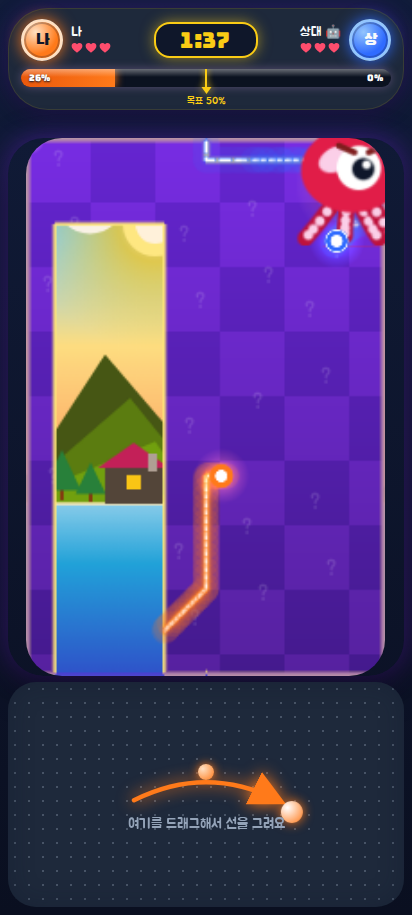
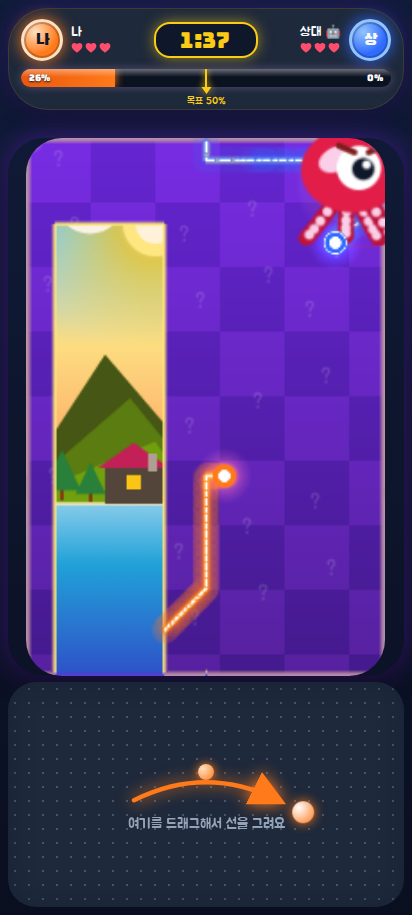
fix: restroke trail core on append and stabilize pixel e2e
Halo the new tip then orange+white over glow-radius lookback so
incremental round-caps cannot bury the white core. Double-stroke
a slightly redder orange so FIT still reads b≤70. New append e2e
plus 10/10 local pixel runs at 390/360/412 without looser caps.

diff --git a/tests/e2e/cover-layout.spec.ts b/tests/e2e/cover-layout.spec.ts
@@ -48,17 +48,21 @@ async function waitTrailAppend(page: Page) {
   );
 }
 
-function expect390Trail(measured: TrailMeasure) {
+function expectTrailBand(measured: TrailMeasure, minSolid: number) {
   expect(measured.hasWhiteCenter, `center ${measured.centerRgb}`).toBe(true);
   expect(measured.whiteCore).toBeGreaterThanOrEqual(1);
   expect(measured.whiteCore).toBeLessThanOrEqual(3.5);
-  expect(measured.solidWidth).toBeGreaterThanOrEqual(3);
+  expect(measured.solidWidth).toBeGreaterThanOrEqual(minSolid);
   expect(measured.solidWidth).toBeLessThanOrEqual(8.5);
   expect(measured.glowWidth).toBeGreaterThanOrEqual(14);
   expect(measured.glowWidth).toBeLessThanOrEqual(36);
   expect(measured.orangeRgb, 'orange band').toBeTruthy();
   expect(measured.orangeRgb![0]).toBeGreaterThanOrEqual(210);
   expect(measured.orangeRgb![1]).toBeLessThanOrEqual(170);
+}
+
+function expect390Trail(measured: TrailMeasure) {
+  expectTrailBand(measured, 3);
   expect(measured.orangeRgb![2]).toBeLessThanOrEqual(70);
   expect(measured.ringPx).toBeGreaterThanOrEqual(16);
   expect(measured.ringPx).toBeLessThanOrEqual(24);
@@ -164,9 +168,9 @@ async function measureRenderedTrail(page: Page): Promise<TrailMeasure> {
         if (rad >= 6 && rad <= 14) radii.push(rad);
       }
       radii.sort((a, b) => a - b);
-      const body = radii.filter((r) => r >= 8 && r <= 13);
-      const use = body.length ? body : radii;
-      if (use.length) ring = use[Math.floor(use.length * 0.5)] * 2;
+      const body = radii.filter((r) => r >= 8 && r <= 12);
+      const use = body.length ? body : radii.filter((r) => r >= 8 && r <= 13);
+      if (use.length) ring = use[Math.floor(use.length * 0.4)] * 2;
     }
     const index = (x: number, y: number) => (y * width + x) * 4;
     const collect = (major: number, minor: number, swap: boolean) => {
@@ -179,7 +183,7 @@ async function measureRenderedTrail(page: Page): Promise<TrailMeasure> {
         let wRun = 0;
         const push = () => {
           if (sRun >= 3 && sRun <= 8) solids.push(sRun);
-          if (gRun >= 8 && gRun <= 40) glows.push(gRun);
+          if (gRun >= 14 && gRun <= 40) glows.push(gRun);
           if (wRun >= 1 && wRun <= 4) cores.push(wRun);
           sRun = 0;
           gRun = 0;
@@ -228,9 +232,14 @@ async function measureRenderedTrail(page: Page): Promise<TrailMeasure> {
     if (orbX >= 0) {
       const isPixWhite = (p: [number, number, number]) =>
         p[0] >= 210 && p[1] >= 175 && p[2] >= 130 && p[1] >= p[0] * 0.58 && p[2] >= p[0] * 0.38;
+      // True core, not cream 255,202,167 from glow/orange overpaint.
+      const isCoreWhite = (p: [number, number, number]) => p[0] >= 240 && p[1] >= 210 && p[2] >= 180;
       // Bright orange band (AA fringe ok). Pure-color pick is closest to #FF7A1A.
       const isPixOrange = (p: [number, number, number]) =>
         p[0] >= 210 && p[1] >= 55 && p[1] <= 180 && p[2] <= 80 && p[0] > p[1] + 40;
+      // AA between white core and #FF7A1A — not the 7–12px inner glow.
+      const isSolidBand = (p: [number, number, number]) =>
+        p[0] >= 200 && p[1] <= 180 && p[2] <= 100 && p[0] > p[1] + 25 && p[0] > p[2] + 70;
       const isPixGlow = (p: [number, number, number]) =>
         p[0] >= 100 && p[0] > p[1] + 8 && (isPixOrange(p) || isPixWhite(p) || p[0] + 40 > p[2]);
       const xLo = Math.max(0, Math.round(orbX) - 52);
@@ -241,28 +250,27 @@ async function measureRenderedTrail(page: Page): Promise<TrailMeasure> {
         white: number;
         rgb: [number, number, number];
         orange: [number, number, number] | null;
+        orangeB: number;
       };
       const cands: Cand[] = [];
-      for (const dy of [8, 12, 14, 16, 20, 24, 28, 32, 36, 44, 54, 70, -12, -18]) {
-        const yScan = Math.round(orbY + dy);
-        if (yScan < 0 || yScan >= height) continue;
-        const row: [number, number, number][] = [];
-        for (let x = 0; x < width; x++) row.push(pix(x, yScan));
+      const offsets = [10, 12, 14, 16, 20, 24, 28, 32, 36, 44, 54, 70, -12, -18];
+      const slice = (lo: number, hi: number, at: (k: number) => [number, number, number]) => {
         const runs: { x0: number; x1: number; glow: number; whites: number }[] = [];
         let g0 = -1;
-        for (let x = xLo; x <= xHi + 1; x++) {
-          const on = x <= xHi && isPixGlow(row[x]);
-          if (on && g0 < 0) g0 = x;
+        for (let k = lo; k <= hi + 1; k++) {
+          const on = k <= hi && isPixGlow(at(k));
+          if (on && g0 < 0) g0 = k;
           if (!on && g0 >= 0) {
             let whites = 0;
-            for (let i = g0; i < x; i++) if (isPixWhite(row[i])) whites++;
-            runs.push({ x0: g0, x1: x - 1, glow: x - g0, whites });
+            for (let i = g0; i < k; i++) if (isPixWhite(at(i)) || isCoreWhite(at(i))) whites++;
+            runs.push({ x0: g0, x1: k - 1, glow: k - g0, whites });
             g0 = -1;
           }
         }
-        const near = runs.filter((r) => r.glow >= 6 && r.whites >= 1);
-        const best = near.sort((a, b) => a.glow - b.glow || b.whites - a.whites)[0];
-        if (!best) continue;
+        const near = runs.filter((r) => r.glow >= 14 && r.whites >= 1);
+        // Straight ~26px halo, not the thinnest AA fringe or a join blob.
+        const best = near.sort((a, b) => Math.abs(a.glow - 26) - Math.abs(b.glow - 26) || b.whites - a.whites)[0];
+        if (!best) return;
         let wRun = 0;
         let sRun = 0;
         let white = 0;
@@ -271,44 +279,62 @@ async function measureRenderedTrail(page: Page): Promise<TrailMeasure> {
         let peakScore = -1;
         let orange: [number, number, number] | null = null;
         let orangeDist = Infinity;
-        for (let x = best.x0; x <= best.x1; x++) {
-          const p = row[x];
-          if (p[0] >= 190 && p[0] > p[1] + 20) {
+        for (let k = best.x0; k <= best.x1; k++) {
+          const p = at(k);
+          if (isPixOrange(p)) {
             const dist = (p[0] - 255) ** 2 + (p[1] - 122) ** 2 + (p[2] - 26) ** 2;
             if (dist < orangeDist) {
               orangeDist = dist;
               orange = p;
             }
           }
-          if (isPixWhite(p)) {
-            wRun++;
+          if (isCoreWhite(p) || isPixWhite(p)) {
+            if (isCoreWhite(p)) wRun++;
             sRun++;
-            const score = Math.min(p[0], p[1], p[2]);
+            const score = Math.min(p[0], p[1], p[2]) + (isCoreWhite(p) ? 1000 : 0);
             if (score > peakScore) {
               peakScore = score;
-              peak = x;
+              peak = k;
             }
-          } else if (isPixOrange(p)) {
+          } else if (isPixOrange(p) || isSolidBand(p)) {
             if (wRun && wRun <= 5) white = Math.max(white, wRun);
             wRun = 0;
             sRun++;
           } else {
             if (wRun && wRun <= 5) white = Math.max(white, wRun);
-            if (sRun >= 2 && sRun <= 10) solid = Math.max(solid, sRun);
+            if (sRun >= 2 && sRun <= 8) solid = Math.max(solid, sRun);
             wRun = 0;
             sRun = 0;
           }
         }
         if (wRun && wRun <= 5) white = Math.max(white, wRun);
-        if (sRun >= 2 && sRun <= 10) solid = Math.max(solid, sRun);
-        const rgb = row[peak];
-        if (!isPixWhite(rgb)) continue;
-        cands.push({ solid, glow: best.glow, white, rgb, orange });
+        if (sRun >= 2 && sRun <= 8) solid = Math.max(solid, sRun);
+        const rgb = at(peak);
+        if (!isPixWhite(rgb) && !isCoreWhite(rgb)) return;
+        cands.push({ solid, glow: best.glow, white, rgb, orange, orangeB: orange ? orange[2] : 99 });
+      };
+      for (const dy of offsets) {
+        const yScan = Math.round(orbY + dy);
+        if (yScan < 0 || yScan >= height) continue;
+        slice(xLo, xHi, (x) => pix(x, yScan));
+      }
+      // Horizontal arm: a row-scan is parallel to the trail; cut a column instead.
+      const yLo = Math.max(0, Math.round(orbY) - 52);
+      const yHi = Math.min(height - 1, Math.round(orbY) + 52);
+      for (const dx of offsets) {
+        const xScan = Math.round(orbX + dx);
+        if (xScan < 0 || xScan >= width) continue;
+        slice(yLo, yHi, (y) => pix(xScan, y));
       }
       cands.sort((a, b) => {
-        const aOk = a.white >= 1 && a.white <= 3.5 && a.solid >= 3 && a.solid <= 8.5 ? 0 : 1;
-        const bOk = b.white >= 1 && b.white <= 3.5 && b.solid >= 3 && b.solid <= 8.5 ? 0 : 1;
-        return aOk - bOk || Math.abs(a.solid - 4) - Math.abs(b.solid - 4);
+        const band = (c: Cand) =>
+          c.white >= 1 && c.white <= 3.5 && c.solid >= 3 && c.solid <= 8.5 && c.glow >= 14 && c.glow <= 36 ? 0 : 1;
+        return (
+          band(a) - band(b) ||
+          a.orangeB - b.orangeB ||
+          Math.abs(a.glow - 26) - Math.abs(b.glow - 26) ||
+          Math.abs(a.solid - 4) - Math.abs(b.solid - 4)
+        );
       });
       const chosen = cands[0];
       if (chosen) {
@@ -464,8 +490,8 @@ test.describe('Cover spike 390x844', () => {
   test('incremental trail append keeps a white core', async ({ page }) => {
     test.setTimeout(60000);
     await waitMidDraw(page);
-    await waitTrailAppend(page);
-    await waitTrailAppend(page);
+    const already = await page.evaluate(() => window.__turfDebug?.trailPaintKind);
+    if (already !== 'append') await waitTrailAppend(page);
     const kind = await page.evaluate(() => ({
       kind: window.__turfDebug?.trailPaintKind,
       appends: window.__turfDebug?.trailPaintAppends,
@@ -474,11 +500,12 @@ test.describe('Cover spike 390x844', () => {
       dpr: window.__turfDebug?.trailDpr,
     }));
     expect(kind.kind, `paint ${JSON.stringify(kind)}`).toBe('append');
-    expect(kind.appends ?? 0).toBeGreaterThanOrEqual(2);
+    expect(kind.appends ?? 0).toBeGreaterThanOrEqual(10);
     const measured = await measureRenderedTrail(page);
     console.log('incremental append trail 390x844', measured, kind);
     await page.screenshot({ path: path.join(SCREENSHOT_DIR, 'orb-mid-draw-append.png') });
-    expect390Trail(measured);
+    expectTrailBand(measured, 3);
+    expect(measured.orangeRgb![2]).toBeLessThanOrEqual(70);
     // Cream 255,202,167 is glow/orange over white — require a real core.
     expect(measured.centerRgb![1], `append center ${measured.centerRgb}`).toBeGreaterThanOrEqual(200);
     expect(measured.centerRgb![2], `append center ${measured.centerRgb}`).toBeGreaterThanOrEqual(180);

diff --git a/packages/client/src/main.ts b/packages/client/src/main.ts
@@ -49,7 +49,7 @@ const ORB_BLOOM_TEX = 64;
 const TRAIL_DPR_CAP = 2;
 const TRAIL_ORANGE_CSS = 4;
 /** ~2 CSS px; restroked last after glow so FIT downsample still reads ~2px. */
-const TRAIL_WHITE_CSS = 2.5;
+const TRAIL_WHITE_CSS = 2.6;
 /** 3 low-alpha halo layers (~27px) — no hard 16px pink band. */
 const TRAIL_GLOW_LAYERS: ReadonlyArray<readonly [number, number]> = [
   [26, 0.14],
@@ -1205,8 +1205,11 @@ class GameScene extends Phaser.Scene {
       }
     }
     if (pass === 'body' || pass === 'all') {
-      ctx.strokeStyle = color;
+      // Drop the +26 blue of #FF7A1A so FIT+purple mix stays b≤70.
+      ctx.strokeStyle = color === A.me ? '#FF7A00' : color;
       ctx.lineWidth = px(TRAIL_ORANGE_CSS);
+      ctx.stroke(path);
+      ctx.lineWidth = px(Math.max(TRAIL_WHITE_CSS + 1, TRAIL_ORANGE_CSS - 0.8));
       ctx.stroke(path);
     }
     if (pass === 'core' || pass === 'all') {
